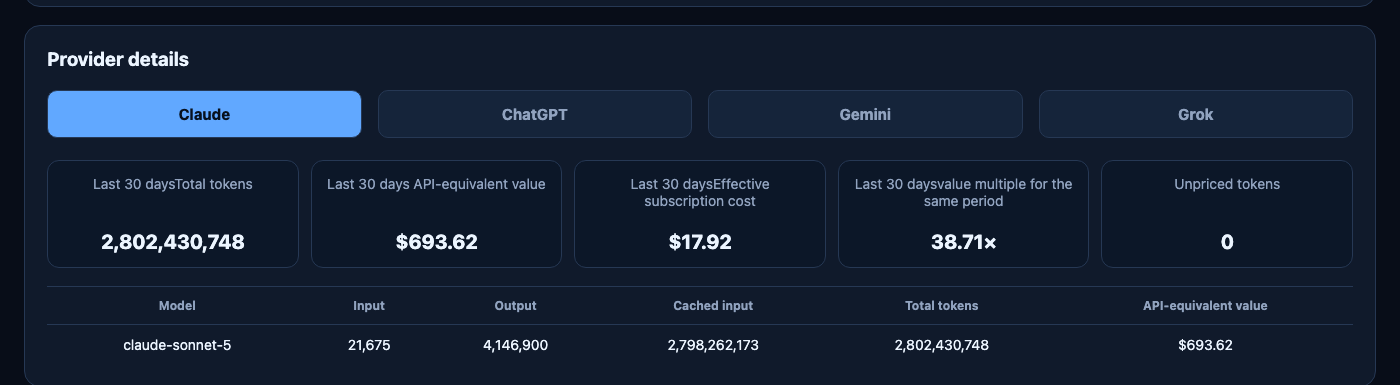
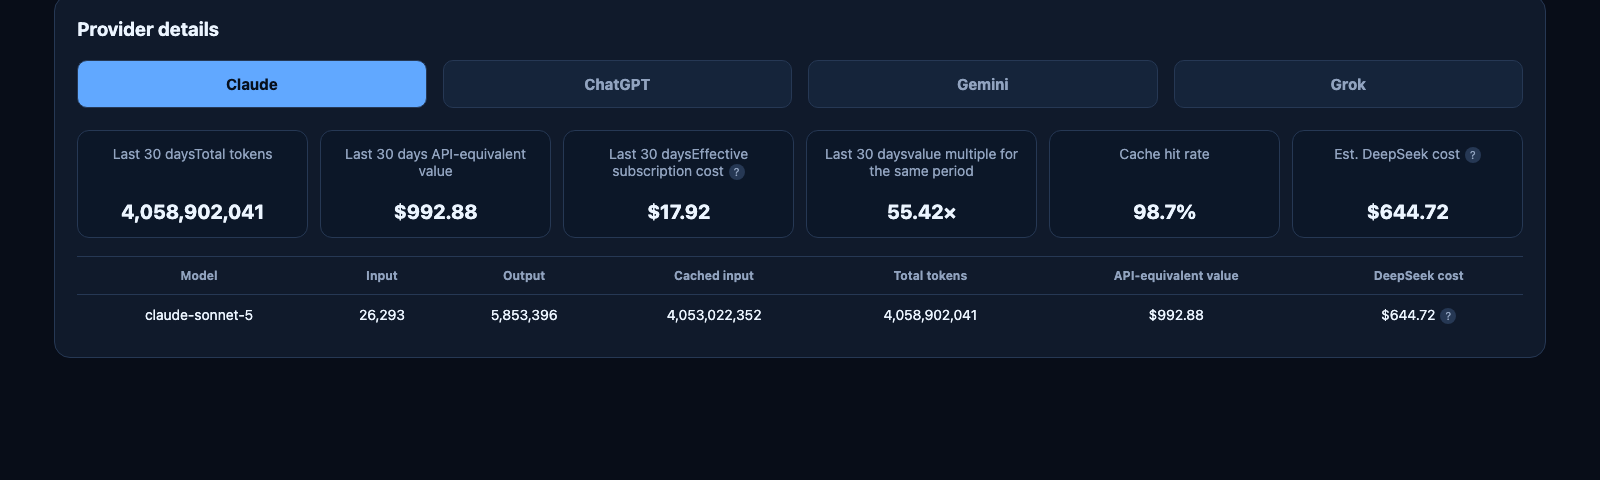
Refresh README screenshots for cache-hit rate and DeepSeek comparison
The old screenshots predated the DeepSeek cost comparison and cache-hit
rate features. Re-shot with the same steady $20/month ChatGPT plan used
before (to keep the numbers self-consistent), and added two new images:
the provider-detail cards showing cache-hit rate + DeepSeek cost, and
the configuration guide's DeepSeek methodology section with the full
model-to-tier mapping table.

diff --git a/README.md b/README.md
@@ -20,10 +20,14 @@ A local, no-account menu-bar / system-tray app that reads on-device usage logs f
 | --- | --- |
 | ![Report dashboard](assets/screenshots/report.png) | ![Settings panel](assets/screenshots/settings.png) |
 
-Per-provider detail (per-model tokens and value), and the same report in Chinese:
+Per-provider detail — including a real cache-hit rate and an estimated cost for the same usage on DeepSeek, matched by measured capability, not price or product name — and the same report in Chinese:
 
-![Claude provider detail](assets/screenshots/report-claude-tab.png)
+![Claude provider detail with cache-hit rate and DeepSeek cost](assets/screenshots/report-claude-tab.png)
 ![Report in Chinese](assets/screenshots/report-zh.png)
+
+The DeepSeek comparison and its full model-to-tier mapping are documented on the in-app configuration guide:
+
+![DeepSeek comparison methodology and model mapping table](assets/screenshots/deepseek-methodology-en.png)
 
 **Getting it**
 

diff --git a/README.zh-CN.md b/README.zh-CN.md
@@ -20,10 +20,14 @@
 | --- | --- |
 | ![报表首页](assets/screenshots/report.png) | ![设置页面](assets/screenshots/settings.png) |
 
-各平台明细（按模型拆分的 Token 和价值），以及中文版报表：
+各平台明细——包含真实的缓存命中率，以及同样这批用量如果换成 DeepSeek 大概要花多少钱（按实测能力对应档位，不是按价格或产品名字），以及中文版报表：
 
-![Claude 平台明细](assets/screenshots/report-claude-tab.png)
+![Claude 平台明细，含缓存命中率和 DeepSeek 对比成本](assets/screenshots/report-claude-tab.png)
 ![中文版报表](assets/screenshots/report-zh.png)
+
+DeepSeek 对比用的方法和完整的模型对应关系表，都写在软件自带的"配置及使用说明"页面里：
+
+![DeepSeek 对比方法和模型对应关系表](assets/screenshots/deepseek-methodology-zh.png)
 
 **获取方式**
 
